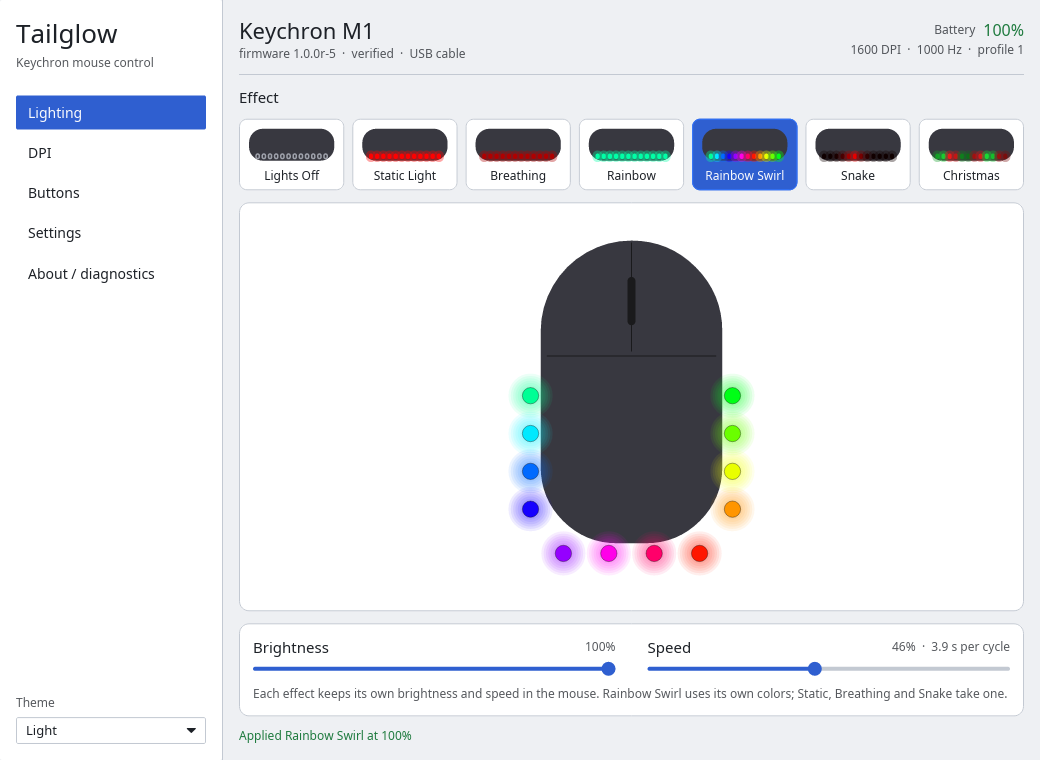
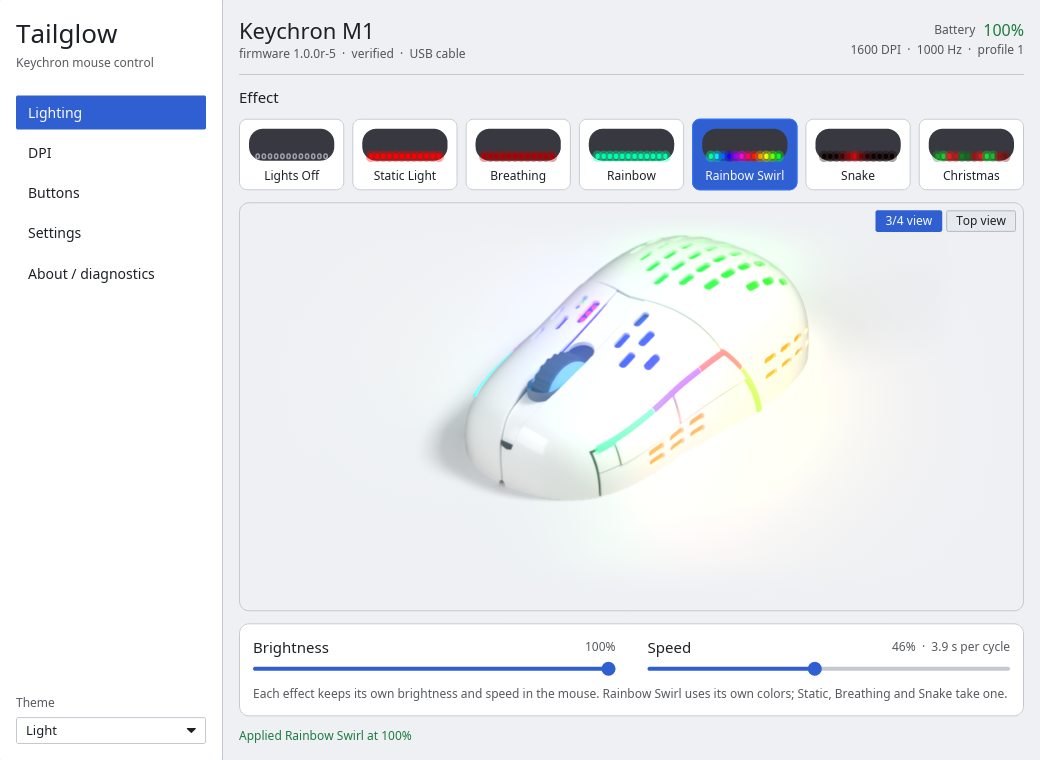
docs: hero render and lighting screenshots of the render preview

Changed region(s): [[0.4, 0.3026, 0.8, 0.7566], [0.8308, 0.2724, 0.9846, 0.3026]]

diff --git a/README.md b/README.md
@@ -1,6 +1,6 @@
 # Tailglow: open-source settings for Keychron mice on Linux
 
-<!-- hero render goes here -->
+![The white Keychron M1 render with Rainbow Swirl, as the Lighting page previews it](screenshots/hero.png)
 ![Tailglow: the Lighting page in the dark theme](screenshots/dark/00-lighting.png)
 
 Lighting, DPI, report rate, sensor options, button remapping and battery
@@ -398,6 +398,10 @@ tested).
   smoke test that walks through the pages, saves one PNG per page and exits.
 - `TAILGLOW_FAKE=1 tailglow-gui`: run against the recorded M1 without hardware
   (`none` / `noperm` / a pcap path work as for the CLI).
+- `TAILGLOW_SHOT_TOUR=lighting` with `--screenshot DIR`: save the Lighting
+  page with every effect on the 3D render instead (`TOUR_DIR=DIR
+  scripts/screenshots.sh` runs it for both themes).
+- `TAILGLOW_RENDER_STATS=1`: print the render preview's frame times.
 
 ## Screenshots
 
@@ -408,6 +412,17 @@ Every page in both themes is in `screenshots/light/` and `screenshots/dark/`
 |---|---|
 | ![Lighting, light theme](screenshots/light/00-lighting.png) | ![Lighting, dark theme](screenshots/dark/00-lighting.png) |
 | ![Settings, light theme](screenshots/light/03-settings.png) | ![Settings, dark theme](screenshots/dark/03-settings.png) |
+
+The Lighting page previews the effect live on a 3D render of the white M1,
+with the light on its real zones (slots, wheel, light pipes) and the glow on
+the desk; "3/4 view" / "Top view" switches the camera. The render is an
+original made for this project (`crates/tailglow-gui/assets/render/`); other
+models get a simple drawing instead.
+
+| Static red, 3/4 view | Rainbow Swirl and Snake, top view |
+|---|---|
+| ![Static red on the M1 render, light theme](screenshots/lighting/light-hero-static-red.png) | ![Rainbow Swirl on the top view, light theme](screenshots/lighting/light-top-rainbow-swirl.png) |
+| ![Static red on the M1 render, dark theme](screenshots/lighting/dark-hero-static-red.png) | ![Snake on the top view, dark theme](screenshots/lighting/dark-top-snake.png) |
 
 Over Bluetooth (fake BlueZ; `scripts/bluetooth-screenshots.sh`):
 
